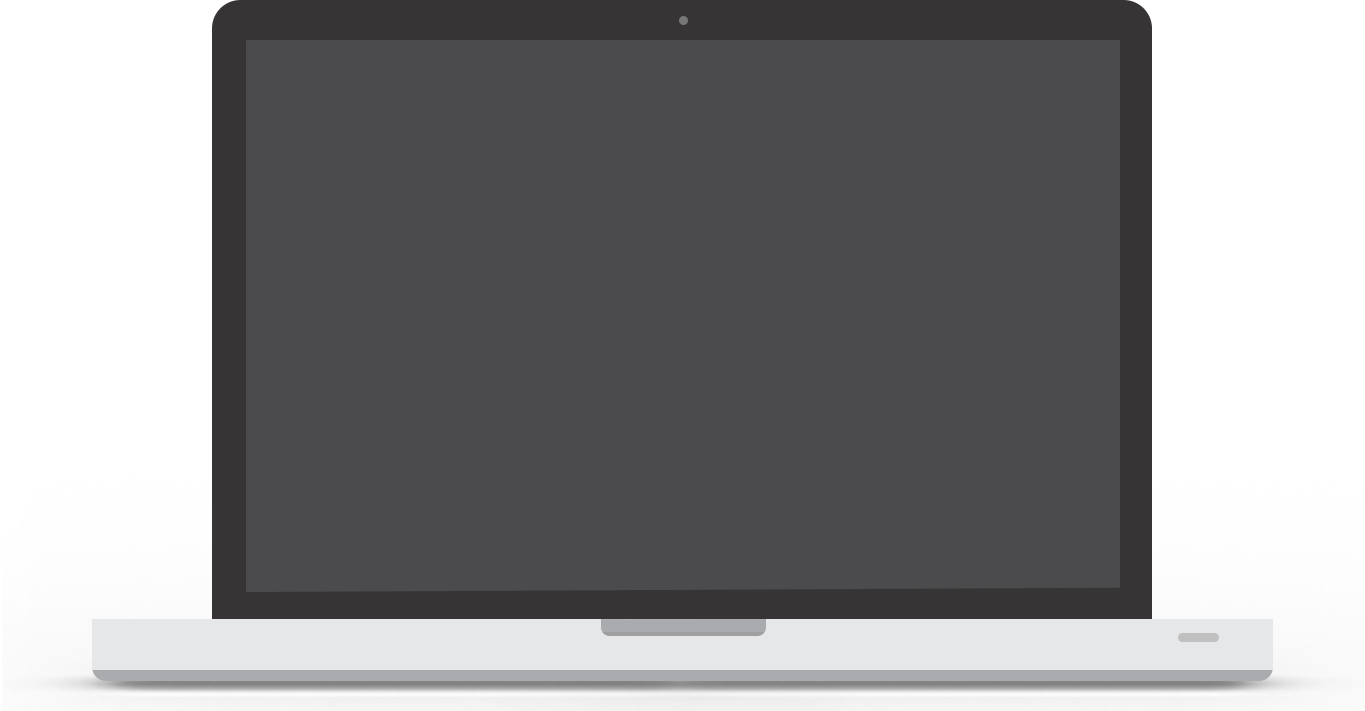
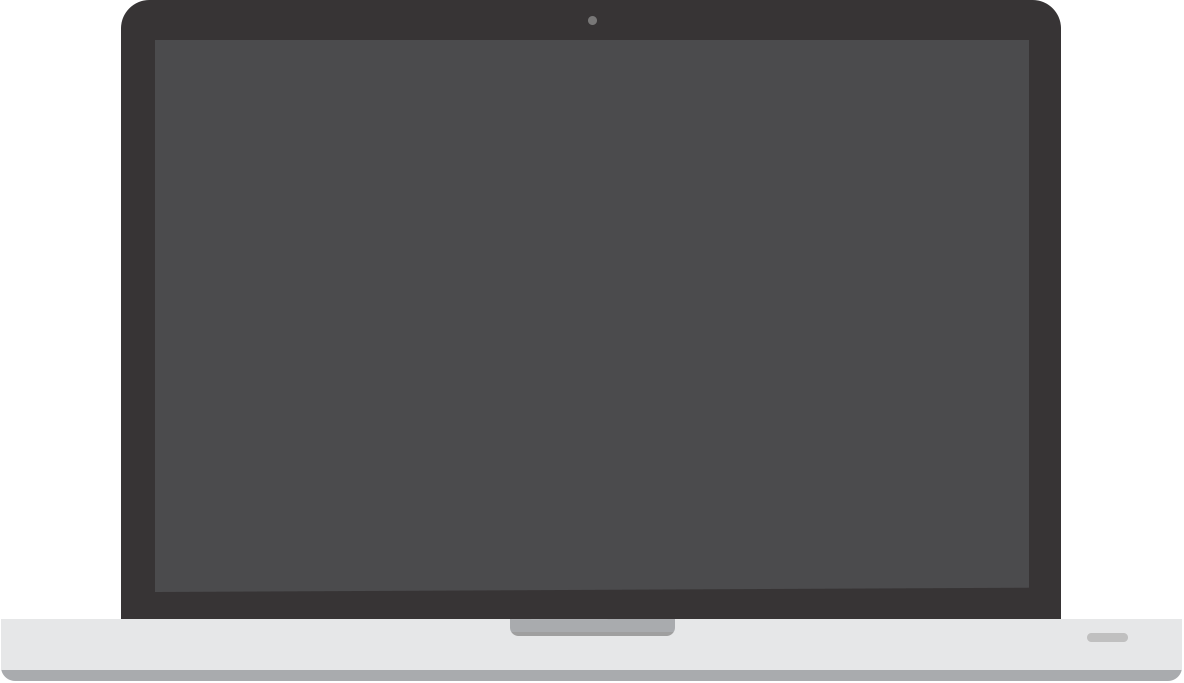
Increase MacBook size

Changed region(s): [[0.0, 0.0, 1.0, 1.0]]

diff --git a/pages/work/life-with-bird/index.jsx b/pages/work/life-with-bird/index.jsx
@@ -46,7 +46,9 @@ export default class LifeWithBird extends Component {
     return (
       <ProjectPage project={project}>
         <ProjectIntro project={project} media={image} />
-        <ProjectDescription>
+        <ProjectDescription media={(<Macbook>
+            <Carousel images={images} />
+          </Macbook>)}>
           <h3>Project</h3>
           <p>After building their mobile website, Life with Bird left us with the challenge of rebuilding their current Shopify build. Part of it&apos;s remit was to improve the user experience and include a much cleaner UI that matched their brand and achieve more conversions. The current code and deployment solution also needed revisiting to be scalable and flexible.</p>
 

diff --git a/components/macbook/styles.module.css b/components/macbook/styles.module.css
@@ -7,8 +7,8 @@
 
 .content {
   position: absolute;
-  width: 64.9%;
-  top: 5.6%;
-  max-height: 77.8%;
+  width: 74.7%;
+  top: 5.8%;
+  max-height: 81%;
   overflow: hidden;
 }
